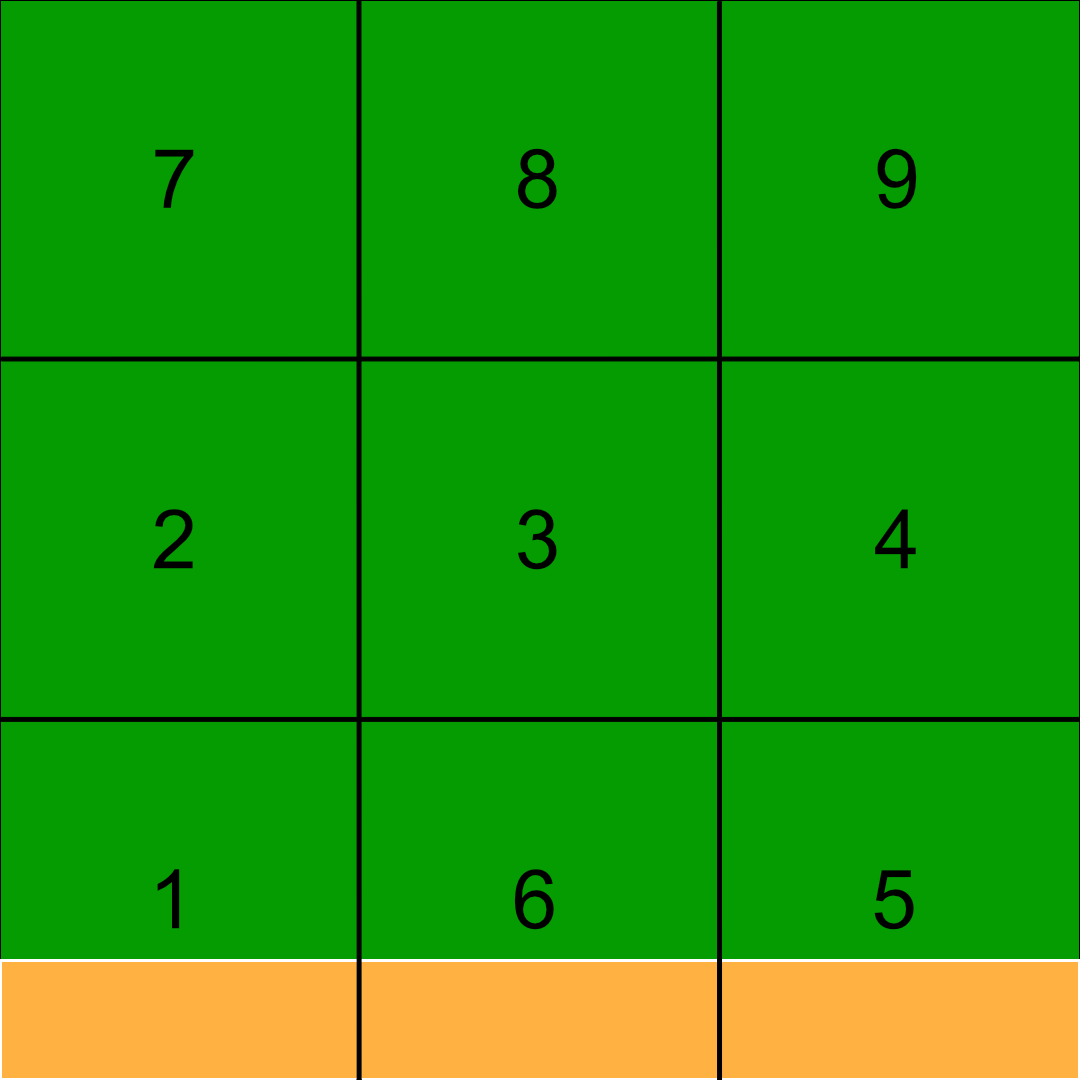
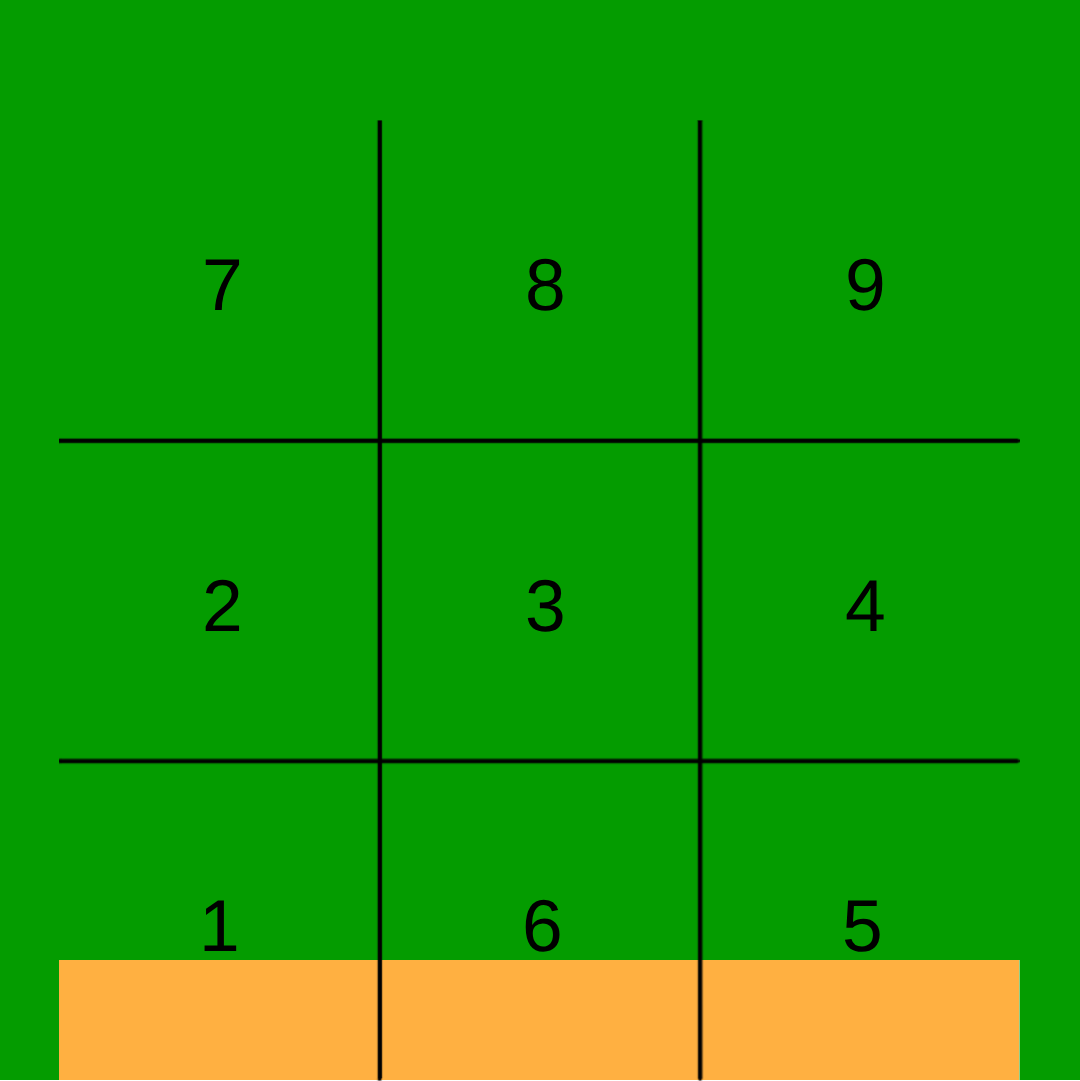
cambiati campi battuta e traiettorie

diff --git a/js/scout-ui.js b/js/scout-ui.js
@@ -12824,6 +12824,19 @@ function getServeTrajectoryImages(cb) {
   serveTrajectoryImgs = { start, end, startFar, endFar };
   return serveTrajectoryImgs;
 }
+function getAttackEmptyImage(isFarSide, cb) {
+  const key = isFarSide ? "attack-empty-far" : "attack-empty-near";
+  if (trajectoryBgCache[key] && trajectoryBgCache[key].complete) {
+    return trajectoryBgCache[key];
+  }
+  const img = new Image();
+  img.src = isFarSide ? TRAJECTORY_IMG_FAR : TRAJECTORY_IMG_NEAR;
+  if (cb) {
+    img.onload = cb;
+  }
+  trajectoryBgCache[key] = img;
+  return img;
+}
 function getTrajectoryColorForCode(code, variant = "attack") {
   const normalized = normalizeEvalCode(code) || String(code || "").trim();
   const palette = variant === "serve" ? TRAJECTORY_LINE_COLORS_SERVE : TRAJECTORY_LINE_COLORS;
@@ -12874,9 +12887,10 @@ function getServeTrajectoryEventsForServer(scope) {
   }
   return { events, serverName, eventSwap };
 }
-function drawServeTrajectoryCanvas(canvas, card, events, { scope, isFarServe } = {}) {
+function drawServeTrajectoryCanvas(canvas, card, events, { scope, isFarServe, onImagesLoad } = {}) {
   if (!canvas || !card) return;
-  const imgs = getServeTrajectoryImages(() => renderLogServeTrajectories());
+  const gapOverlapPx = 30;
+  const imgs = getServeTrajectoryImages(onImagesLoad || (() => renderLogServeTrajectories()));
   const farFlag =
     typeof isFarServe === "boolean" ? isFarServe : scope ? isFarSideForScope(scope) : false;
   const startImg = imgs && (farFlag ? imgs.startFar : imgs.start);
@@ -12891,42 +12905,57 @@ function drawServeTrajectoryCanvas(canvas, card, events, { scope, isFarServe } =
   const startHeight = Math.max(80, Math.round(width * startRatio));
   const endHeight = Math.max(80, Math.round(width * endRatio));
   const gapHeight = Math.max(0, startHeight - Math.round(startHeight / 9));
-  const height = startHeight + gapHeight + endHeight;
+  const gapCut = Math.min(gapOverlapPx, Math.max(0, gapHeight - 1));
+  const effectiveGap = Math.max(0, gapHeight - gapCut);
+  const height = startHeight + effectiveGap + endHeight;
   canvas.width = width;
   canvas.height = height;
   const ctx = canvas.getContext("2d");
   ctx.clearRect(0, 0, width, height);
+  const gapImg = getAttackEmptyImage(!farFlag, () => renderLogServeTrajectories());
+  const overlap = gapCut;
   if (farFlag) {
     if (startImg && startImg.complete && startImg.naturalWidth) {
       ctx.drawImage(startImg, 0, 0, width, startHeight);
     }
-    if (gapHeight > 0) {
-      ctx.fillStyle = "#ffb142";
+    if (effectiveGap > 0) {
       const gapStart = startHeight;
-      ctx.fillRect(0, gapStart, width, gapHeight);
-      ctx.strokeStyle = "rgba(0, 0, 0, 0.2)";
-      ctx.lineWidth = 1;
-      ctx.strokeRect(0, gapStart, width, gapHeight);
+      if (gapImg && gapImg.complete && gapImg.naturalWidth) {
+        const srcCut = Math.round((overlap / gapHeight) * gapImg.naturalHeight);
+        const srcY = Math.min(srcCut, gapImg.naturalHeight - 1);
+        const srcH = Math.max(1, gapImg.naturalHeight - srcY);
+        const destY = gapStart;
+        const destH = Math.max(1, effectiveGap);
+        ctx.drawImage(gapImg, 0, srcY, gapImg.naturalWidth, srcH, 0, destY, width, destH);
+      } else {
+        ctx.fillStyle = "#ffb142";
+        ctx.fillRect(0, gapStart, width, Math.max(1, effectiveGap));
+      }
     }
     if (endImg && endImg.complete && endImg.naturalWidth) {
-      ctx.drawImage(endImg, 0, startHeight + gapHeight, width, endHeight);
+      ctx.drawImage(endImg, 0, startHeight + effectiveGap, width, endHeight);
     }
   } else {
     if (endImg && endImg.complete && endImg.naturalWidth) {
       ctx.drawImage(endImg, 0, 0, width, endHeight);
     }
-    if (gapHeight > 0) {
-      ctx.fillStyle = "#ffb142";
-      ctx.fillRect(0, endHeight, width, gapHeight);
-      ctx.strokeStyle = "rgba(0, 0, 0, 0.2)";
-      ctx.lineWidth = 1;
-      ctx.strokeRect(0, endHeight, width, gapHeight);
+    if (effectiveGap > 0) {
+      const gapStart = endHeight;
+      if (gapImg && gapImg.complete && gapImg.naturalWidth) {
+        const srcCut = Math.round((overlap / gapHeight) * gapImg.naturalHeight);
+        const srcH = Math.max(1, gapImg.naturalHeight - srcCut);
+        const destH = Math.max(1, effectiveGap);
+        ctx.drawImage(gapImg, 0, 0, gapImg.naturalWidth, srcH, 0, gapStart, width, destH);
+      } else {
+        ctx.fillStyle = "#ffb142";
+        ctx.fillRect(0, gapStart, width, Math.max(1, effectiveGap));
+      }
     }
     if (startImg && startImg.complete && startImg.naturalWidth) {
-      ctx.drawImage(startImg, 0, endHeight + gapHeight, width, startHeight);
+      ctx.drawImage(startImg, 0, endHeight + effectiveGap, width, startHeight);
     }
   }
-  const netY = farFlag ? startHeight + gapHeight : endHeight;
+  const netY = farFlag ? startHeight + effectiveGap : endHeight;
   ctx.strokeStyle = "#000000";
   ctx.lineWidth = 8;
   ctx.setLineDash([10, 8]);
@@ -12947,9 +12976,9 @@ function drawServeTrajectoryCanvas(canvas, card, events, { scope, isFarServe } =
     const end = farFlag && endRaw ? mirrorTrajectoryPoint(endRaw) : endRaw;
     if (!start || !end) return;
     const sx = clamp01Val(start.x) * width;
-    const sy = clamp01Val(start.y) * startHeight + (farFlag ? 0 : endHeight + gapHeight);
+    const sy = clamp01Val(start.y) * startHeight + (farFlag ? 0 : endHeight + effectiveGap);
     const ex = clamp01Val(end.x) * width;
-    const ey = clamp01Val(end.y) * endHeight + (farFlag ? startHeight + gapHeight : 0);
+    const ey = clamp01Val(end.y) * endHeight + (farFlag ? startHeight + effectiveGap : 0);
     ctx.strokeStyle = getTrajectoryColorForCode(ev.code, "serve");
     ctx.lineWidth = TRAJECTORY_LINE_WIDTH;
     ctx.beginPath();
@@ -13220,11 +13249,6 @@ function renderServeTrajectoryAnalysis() {
     cards.push({ card, canvas, playerIdx });
   });
   if (!cards.length) return;
-  const imgs = getServeTrajectoryImages(() => renderServeTrajectoryAnalysis());
-  const startImg = imgs && imgs.start;
-  const endImg = imgs && imgs.end;
-  const startRatio = startImg && startImg.naturalWidth ? startImg.naturalHeight / startImg.naturalWidth : 0.65;
-  const endRatio = endImg && endImg.naturalWidth ? endImg.naturalHeight / endImg.naturalWidth : 0.65;
   const grouped = {};
   events.forEach(ev => {
     if (typeof ev.playerIdx !== "number") return;
@@ -13232,61 +13256,18 @@ function renderServeTrajectoryAnalysis() {
     grouped[ev.playerIdx].push(ev);
   });
   cards.forEach(({ card, canvas, playerIdx }) => {
-    const list = grouped[playerIdx] || [];
-    const width =
-      (canvas.parentElement && canvas.parentElement.clientWidth) ||
-      (startImg && startImg.naturalWidth) ||
-      (endImg && endImg.naturalWidth) ||
-      320;
-    const startHeight = Math.max(80, Math.round(width * startRatio));
-    const endHeight = Math.max(80, Math.round(width * endRatio));
-    const gapHeight = Math.max(0, startHeight - Math.round(startHeight / 9));
-    const height = startHeight + gapHeight + endHeight;
-    canvas.width = width;
-    canvas.height = height;
-    const ctx = canvas.getContext("2d");
-    ctx.clearRect(0, 0, width, height);
-    if (endImg && endImg.complete && endImg.naturalWidth) {
-      ctx.drawImage(endImg, 0, 0, width, endHeight);
+    let list = grouped[playerIdx] || [];
+    const lastEv = list.length ? list[list.length - 1] : null;
+    const lastSwap = lastEv && typeof lastEv.courtSideSwapped === "boolean" ? lastEv.courtSideSwapped : null;
+    if (lastSwap !== null) {
+      list = list.filter(ev => ev && ev.courtSideSwapped === lastSwap);
     }
-    if (gapHeight > 0) {
-      ctx.fillStyle = "#ffb142";
-      ctx.fillRect(0, endHeight, width, gapHeight);
-      ctx.strokeStyle = "rgba(0, 0, 0, 0.2)";
-      ctx.lineWidth = 1;
-      ctx.strokeRect(0, endHeight, width, gapHeight);
-    }
-    if (startImg && startImg.complete && startImg.naturalWidth) {
-      ctx.drawImage(startImg, 0, endHeight + gapHeight, width, startHeight);
-    }
-    const netY = endHeight;
-    ctx.strokeStyle = "#000000";
-    ctx.lineWidth = 8;
-    ctx.setLineDash([10, 8]);
-    ctx.beginPath();
-    ctx.moveTo(0, netY);
-    ctx.lineTo(width, netY);
-    ctx.stroke();
-    ctx.setLineDash([]);
-    if (!list.length) {
-      card.classList.add("empty");
-      return;
-    }
-    card.classList.remove("empty");
-    list.forEach(ev => {
-      const start = ev.serveStart;
-      const end = ev.serveEnd;
-      if (!start || !end) return;
-      const sx = clamp01Val(start.x) * width;
-      const sy = clamp01Val(start.y) * startHeight + endHeight + gapHeight;
-      const ex = clamp01Val(end.x) * width;
-      const ey = clamp01Val(end.y) * endHeight;
-      ctx.strokeStyle = getTrajectoryColorForCode(ev.code, "serve");
-      ctx.lineWidth = TRAJECTORY_LINE_WIDTH;
-      ctx.beginPath();
-      ctx.moveTo(sx, sy);
-      ctx.lineTo(ex, ey);
-      ctx.stroke();
+    const farFlag =
+      lastSwap !== null ? isFarSideForScopeAtSwap(analysisScope, lastSwap) : undefined;
+    drawServeTrajectoryCanvas(canvas, card, list, {
+      scope: analysisScope,
+      isFarServe: farFlag,
+      onImagesLoad: () => renderServeTrajectoryAnalysis()
     });
   });
 }

diff --git a/todo.md b/todo.md
@@ -1,6 +1,4 @@
 # Minor features
-Trasforma tutte le immagini in svg
-Modifica immagine battuta per mettere il campo fuori
 Aggregare dati di piu partite
 visualizzazione far near attivabile
 
